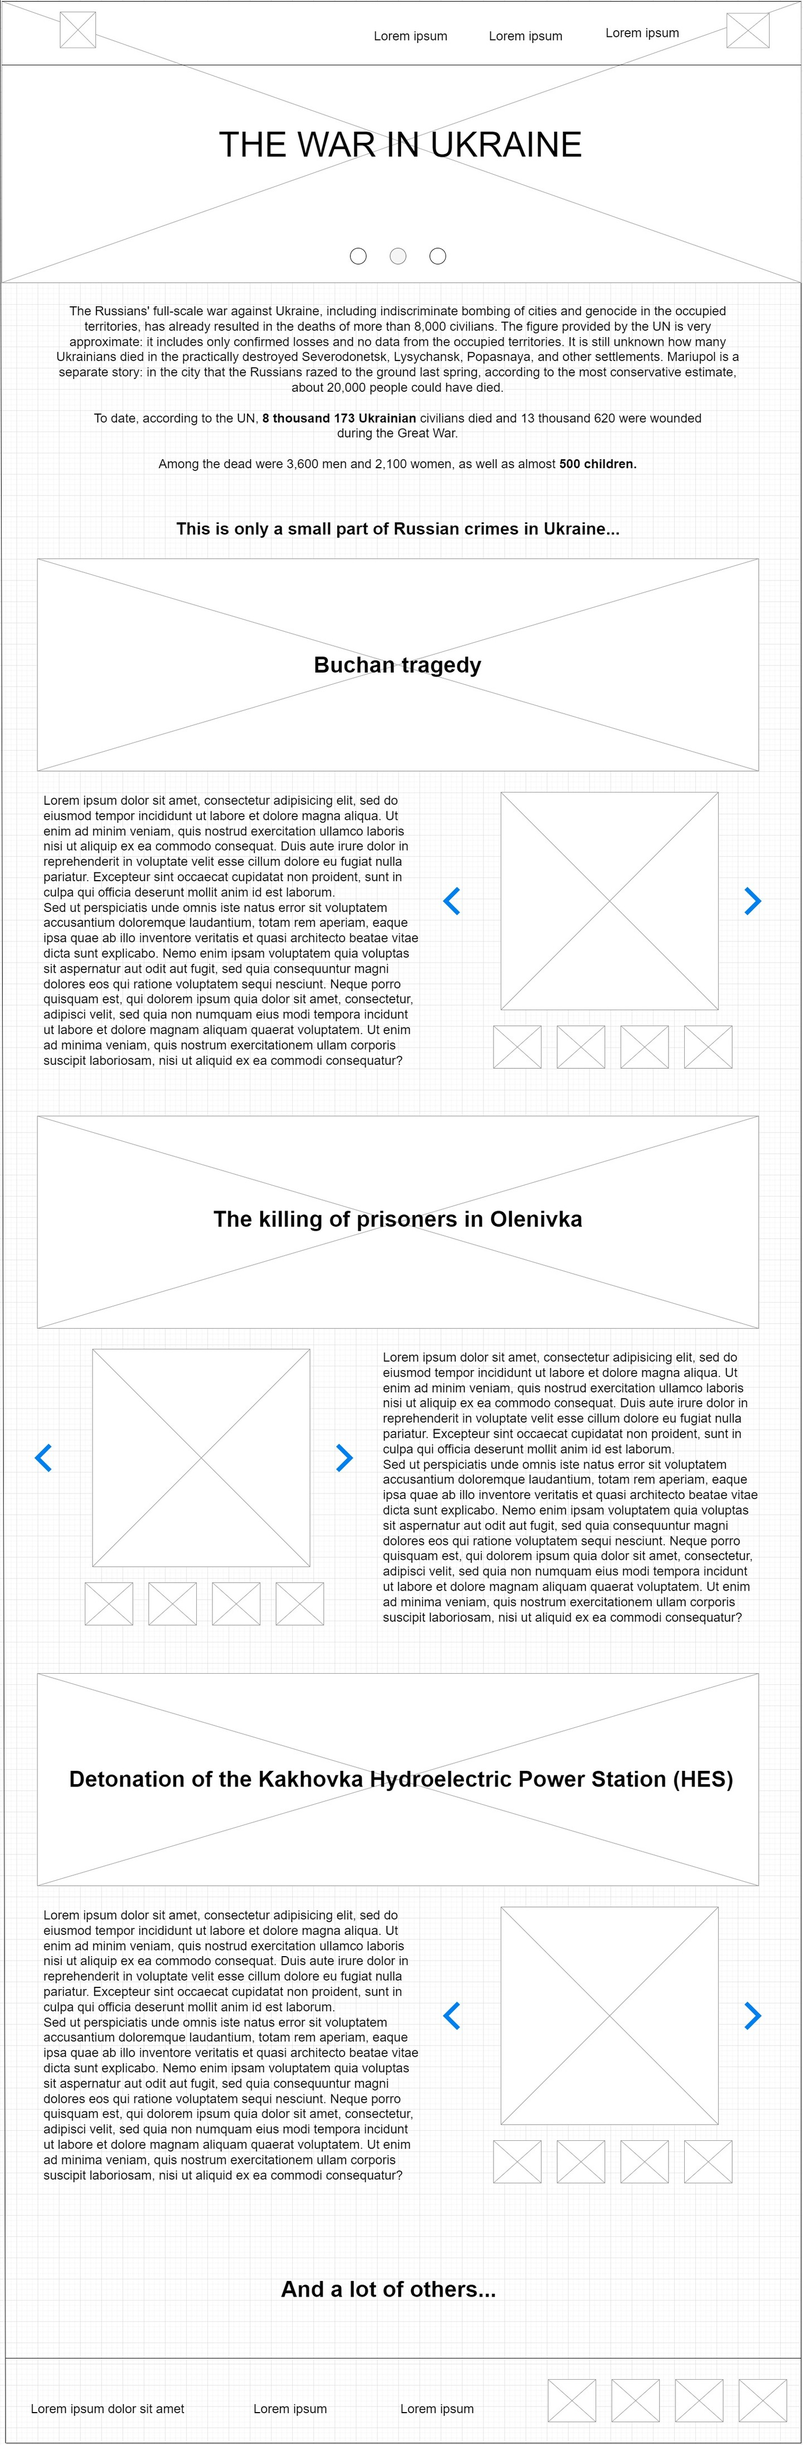
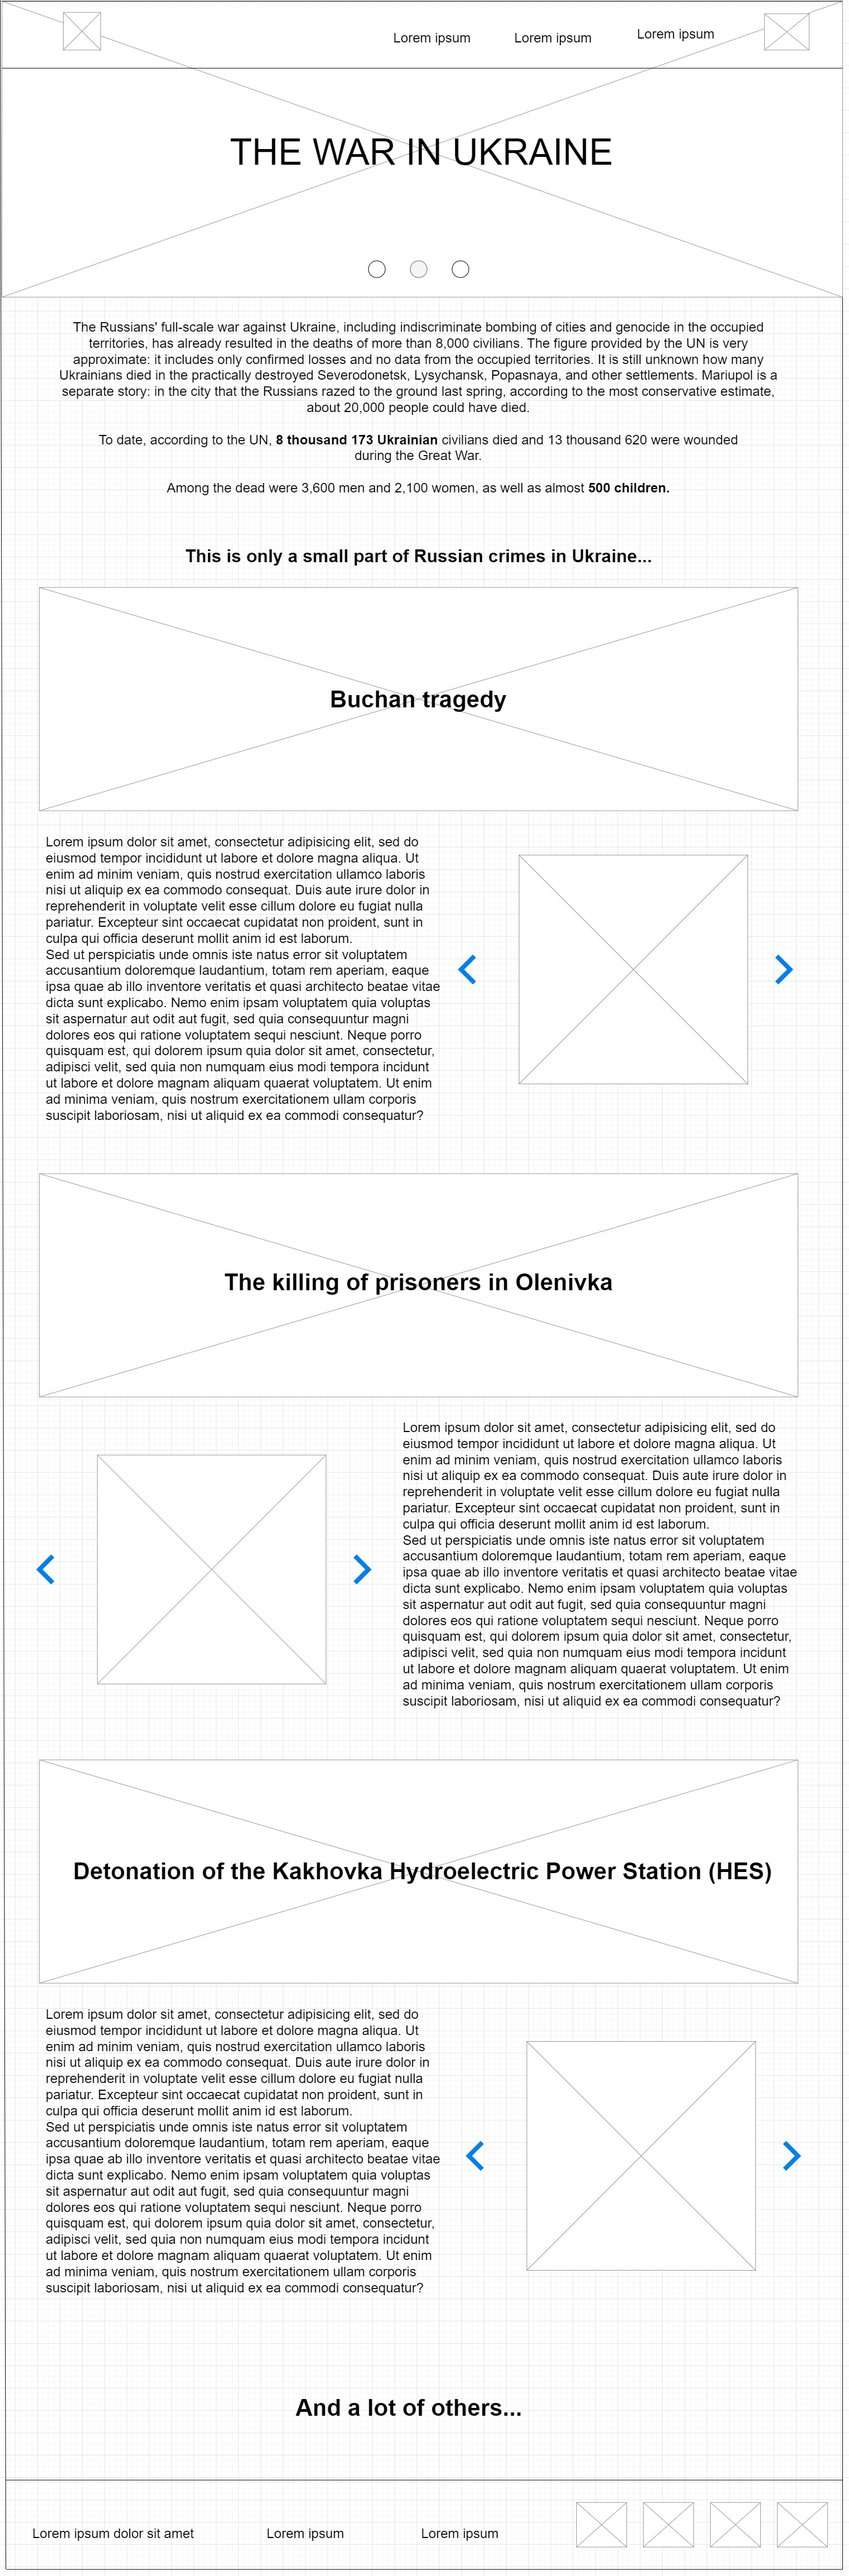
made changes

diff --git a/test/test.html b/test/test.html
@@ -1,0 +1,59 @@
+<!DOCTYPE html>
+<html>
+<title>W3.CSS</title>
+<meta name="viewport" content="width=device-width, initial-scale=1">
+<link rel="stylesheet" href="https://www.w3schools.com/w3css/4/w3.css">
+<body>
+
+<h2 class="w3-center">Manual Slideshow</h2>
+
+<div class="w3-content w3-display-container">
+  <img class="mySlides1" src="images/home-page/Buchan/Buchan.jfif" style="width:100%">
+  <img class="mySlides1" src="images/home-page/Buchan/Buchan1.jpg" style="width:100%">
+  <img class="mySlides1" src="images/home-page/Buchan/Buchan2.jfif" style="width:100%">
+  <img class="mySlides1" src="images/home-page/Buchan/Buchan3.jpg" style="width:100%">
+  <button class="w3-button w3-black w3-display-left" onclick="plusDivs(-1, 0, 0)">&#10094;</button>
+  <button class="w3-button w3-black w3-display-right" onclick="plusDivs(1, 0, 0)">&#10095;</button>
+</div>
+
+<div class="w3-content w3-display-container">
+  <img class="mySlides2" src="images/home-page/olenivka/olenivka.png" style="width:100%">
+  <img class="mySlides2" src="images/home-page/olenivka/olenivka1.png" style="width:100%">
+  <img class="mySlides2" src="images/home-page/olenivka/olenivka2.png" style="width:100%">
+  <button class="w3-button w3-black w3-display-left" onclick="plusDivs(-1, 1, 0)">&#10094;</button>
+  <button class="w3-button w3-black w3-display-right" onclick="plusDivs(1, 1, 0)">&#10095;</button>
+</div>
+
+<div class="w3-content w3-display-container">
+  <img class="mySlides3" src="images/home-page/kakhovka-hydroelectric-power-station/dog.png" style="width:100%">
+  <img class="mySlides3" src="images/home-page/kakhovka-hydroelectric-power-station/citi-in-water.jpeg" style="width:100%">
+  <img class="mySlides3" src="images/home-page/kakhovka-hydroelectric-power-station/citi-in-water1.png" style="width:100%">
+  <button class="w3-button w3-black w3-display-left" onclick="plusDivs(-1, 1, 1)">&#10094;</button>
+  <button class="w3-button w3-black w3-display-right" onclick="plusDivs(1, 1, 1)">&#10095;</button>
+</div>
+
+<script>
+var slideIndex = [1,1,1];
+var slideId = ["mySlides1", "mySlides2", "mySlides3"]
+showDivs(1, 0, 0);
+showDivs(1, 1, 0);
+showDivs(1, 1, 0);
+
+function plusDivs(n, no, noo) {
+  showDivs(slideIndex[noo] += n, no, noo);
+}
+
+function showDivs(n, no, noo) {
+  var i;
+  var x = document.getElementsByClassName(slideId[noo]);
+  if (n > x.length) {slideIndex[noo] = 1}
+  if (n < 1) {slideIndex[noo] = x.length}
+  for (i = 0; i < x.length; i++) {
+    x[i].style.display = "none";  
+  }
+  x[slideIndex[noo]-1].style.display = "block";  
+}
+</script>
+
+</body>
+</html>
